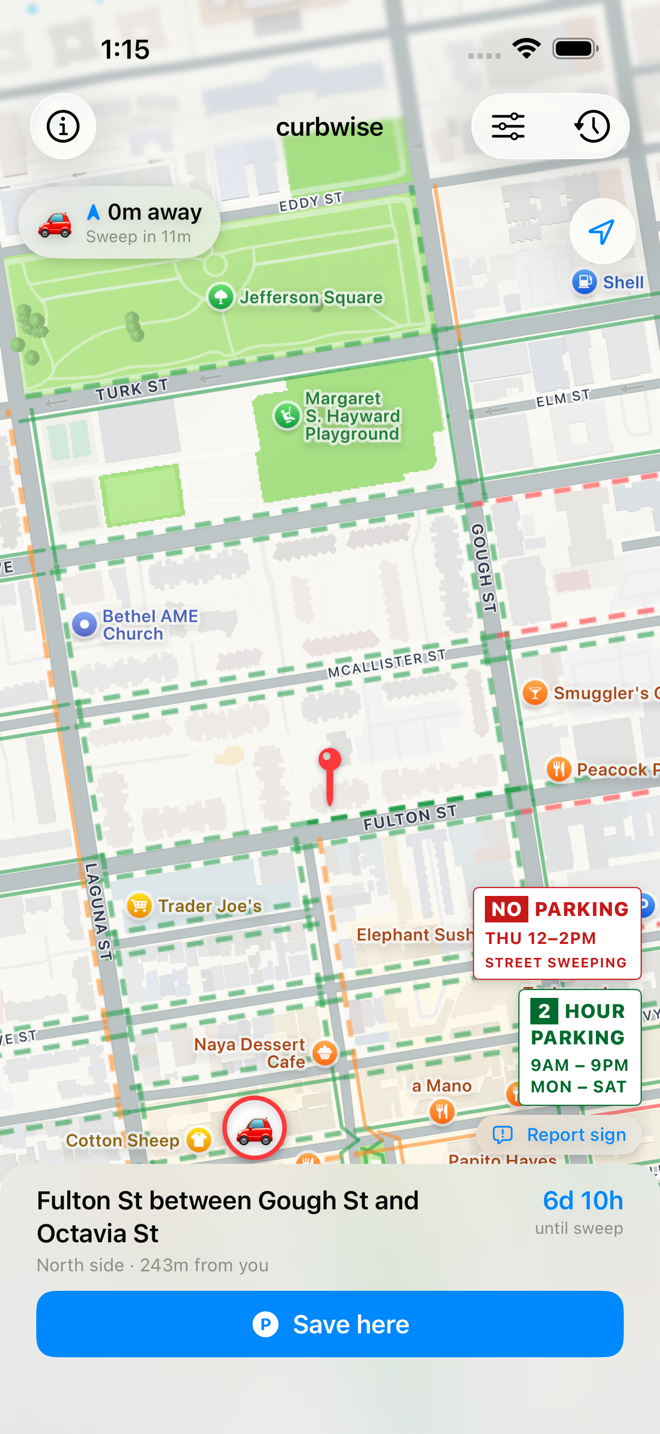
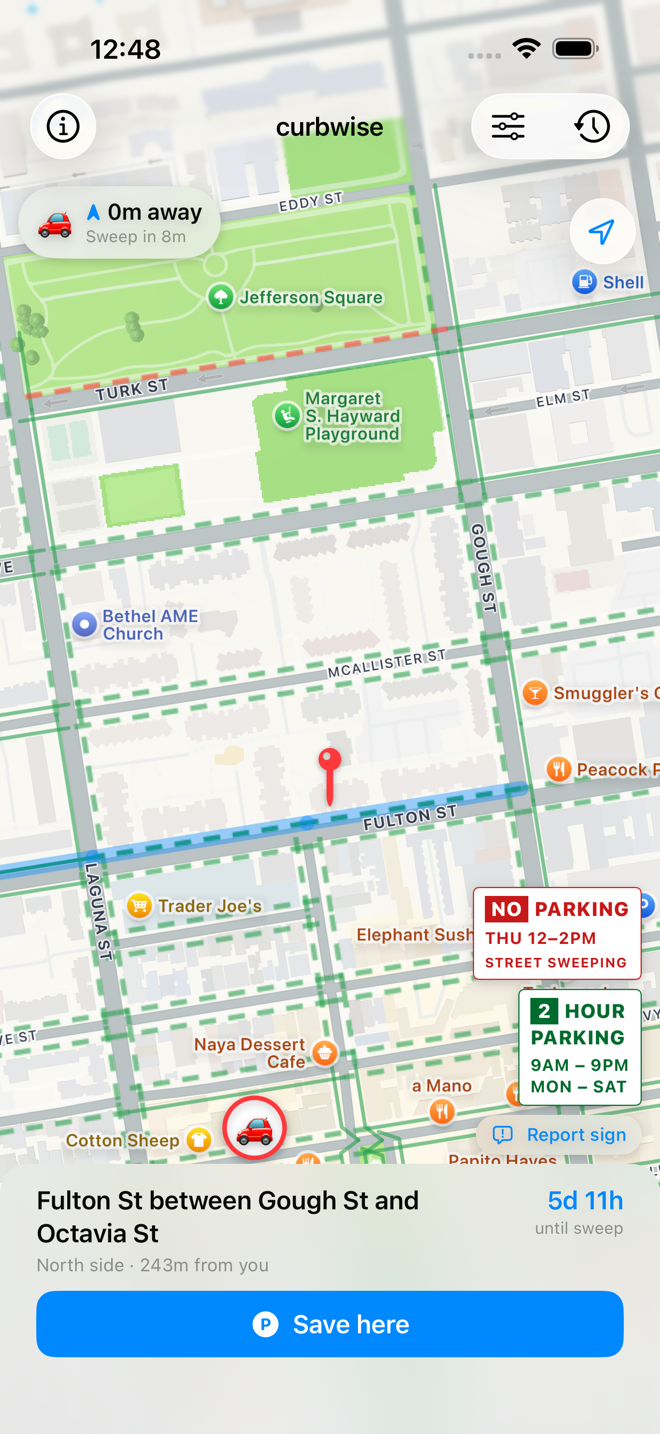
curbwise site: catch up to 1.7.26 — rule runs, CarPlay, corner complication
The site last caught up at 1.7.17, so it described a map that stopped
drawing curbs mid-viewport, a CarPlay that needed the phone app opened
first, and a watch complication with no corner slot.

Four copy changes, one per shipped feature: "Find a spot nearby" gains
the rule-run highlight, "Built for the car" says CarPlay covers both
cities and loads its own data, "Apple Watch" names the Infograph corner
slots, and the Plus alarm mentions the free sample so the pitch does not
depend on buying first to hear it.

Screenshots regenerated in both appearances against 1.7.26. The map
shots were the stale ones — they predate curbs filling the viewport and
the rule-run highlight, both of which are the visible half of those
features. Phone shots stay at 660x1434 (half of the 6.9" native
1320x2868), watch shots at native 324x394.

The watch captures also move from a 46mm sim to the paired SE 3 (40mm),
which is what the App Store set now uses, so the site and the listing
show the same wrist.

diff --git a/curbwise/index.html b/curbwise/index.html
@@ -536,11 +536,11 @@
                 </div>
                 <div class="feature">
                     <h3>Find a spot nearby</h3>
-                    <p>Glance the map. Red curbs sweep within hours, orange within a day, green beyond that. Pan the pin onto whichever curb you like — the bottom card shows the precise time and a one-tap save.</p>
+                    <p>Glance the map. Red curbs sweep within hours, orange within a day, green beyond that. Tap a curb — or just let the pin rest on it — and curbwise traces how far that same rule runs down the street, so you can see where the safe stretch ends. The bottom card shows the precise time and a one-tap save.</p>
                 </div>
                 <div class="feature">
                     <h3>Apple Watch</h3>
-                    <p>The next-sweep countdown on your wrist, laid over the block you parked on, plus a complication for your watch face. Syncs from your iPhone automatically.</p>
+                    <p>The next-sweep countdown on your wrist, laid over the block you parked on, plus a complication for your watch face — including the corner slots on Infograph faces, where the countdown curves around the bezel and takes its colour from how little time is left. Syncs from your iPhone automatically.</p>
                 </div>
                 <div class="feature">
                     <h3>Home Screen widget</h3>
@@ -548,7 +548,7 @@
                 </div>
                 <div class="feature">
                     <h3>Built for the car</h3>
-                    <p>Full CarPlay support. Save before you leave the seat, or let curbwise auto-save the moment you unplug.</p>
+                    <p>Full CarPlay support in both cities. Nearby blocks come up on the car's screen ranked by how long you can park — no need to have opened the app on your phone first. Save before you leave the seat, or let curbwise auto-save the moment you unplug.</p>
                 </div>
                 <div class="feature">
                     <h3>Hey Siri, I parked</h3>
@@ -594,7 +594,7 @@
                 </div>
                 <div class="feature plus">
                     <h3>Sound a real alarm</h3>
-                    <p>Your last reminder takes over the screen and rings through the ring/silent switch, like a Clock alarm — so a silenced phone doesn't cost you a ticket. Requires iOS 26.</p>
+                    <p>Your last reminder takes over the screen and rings through the ring/silent switch, like a Clock alarm — so a silenced phone doesn't cost you a ticket. Play a sample first to hear exactly what you're trusting. Requires iOS 26.</p>
                 </div>
             </div>
             <p class="fineprint">
